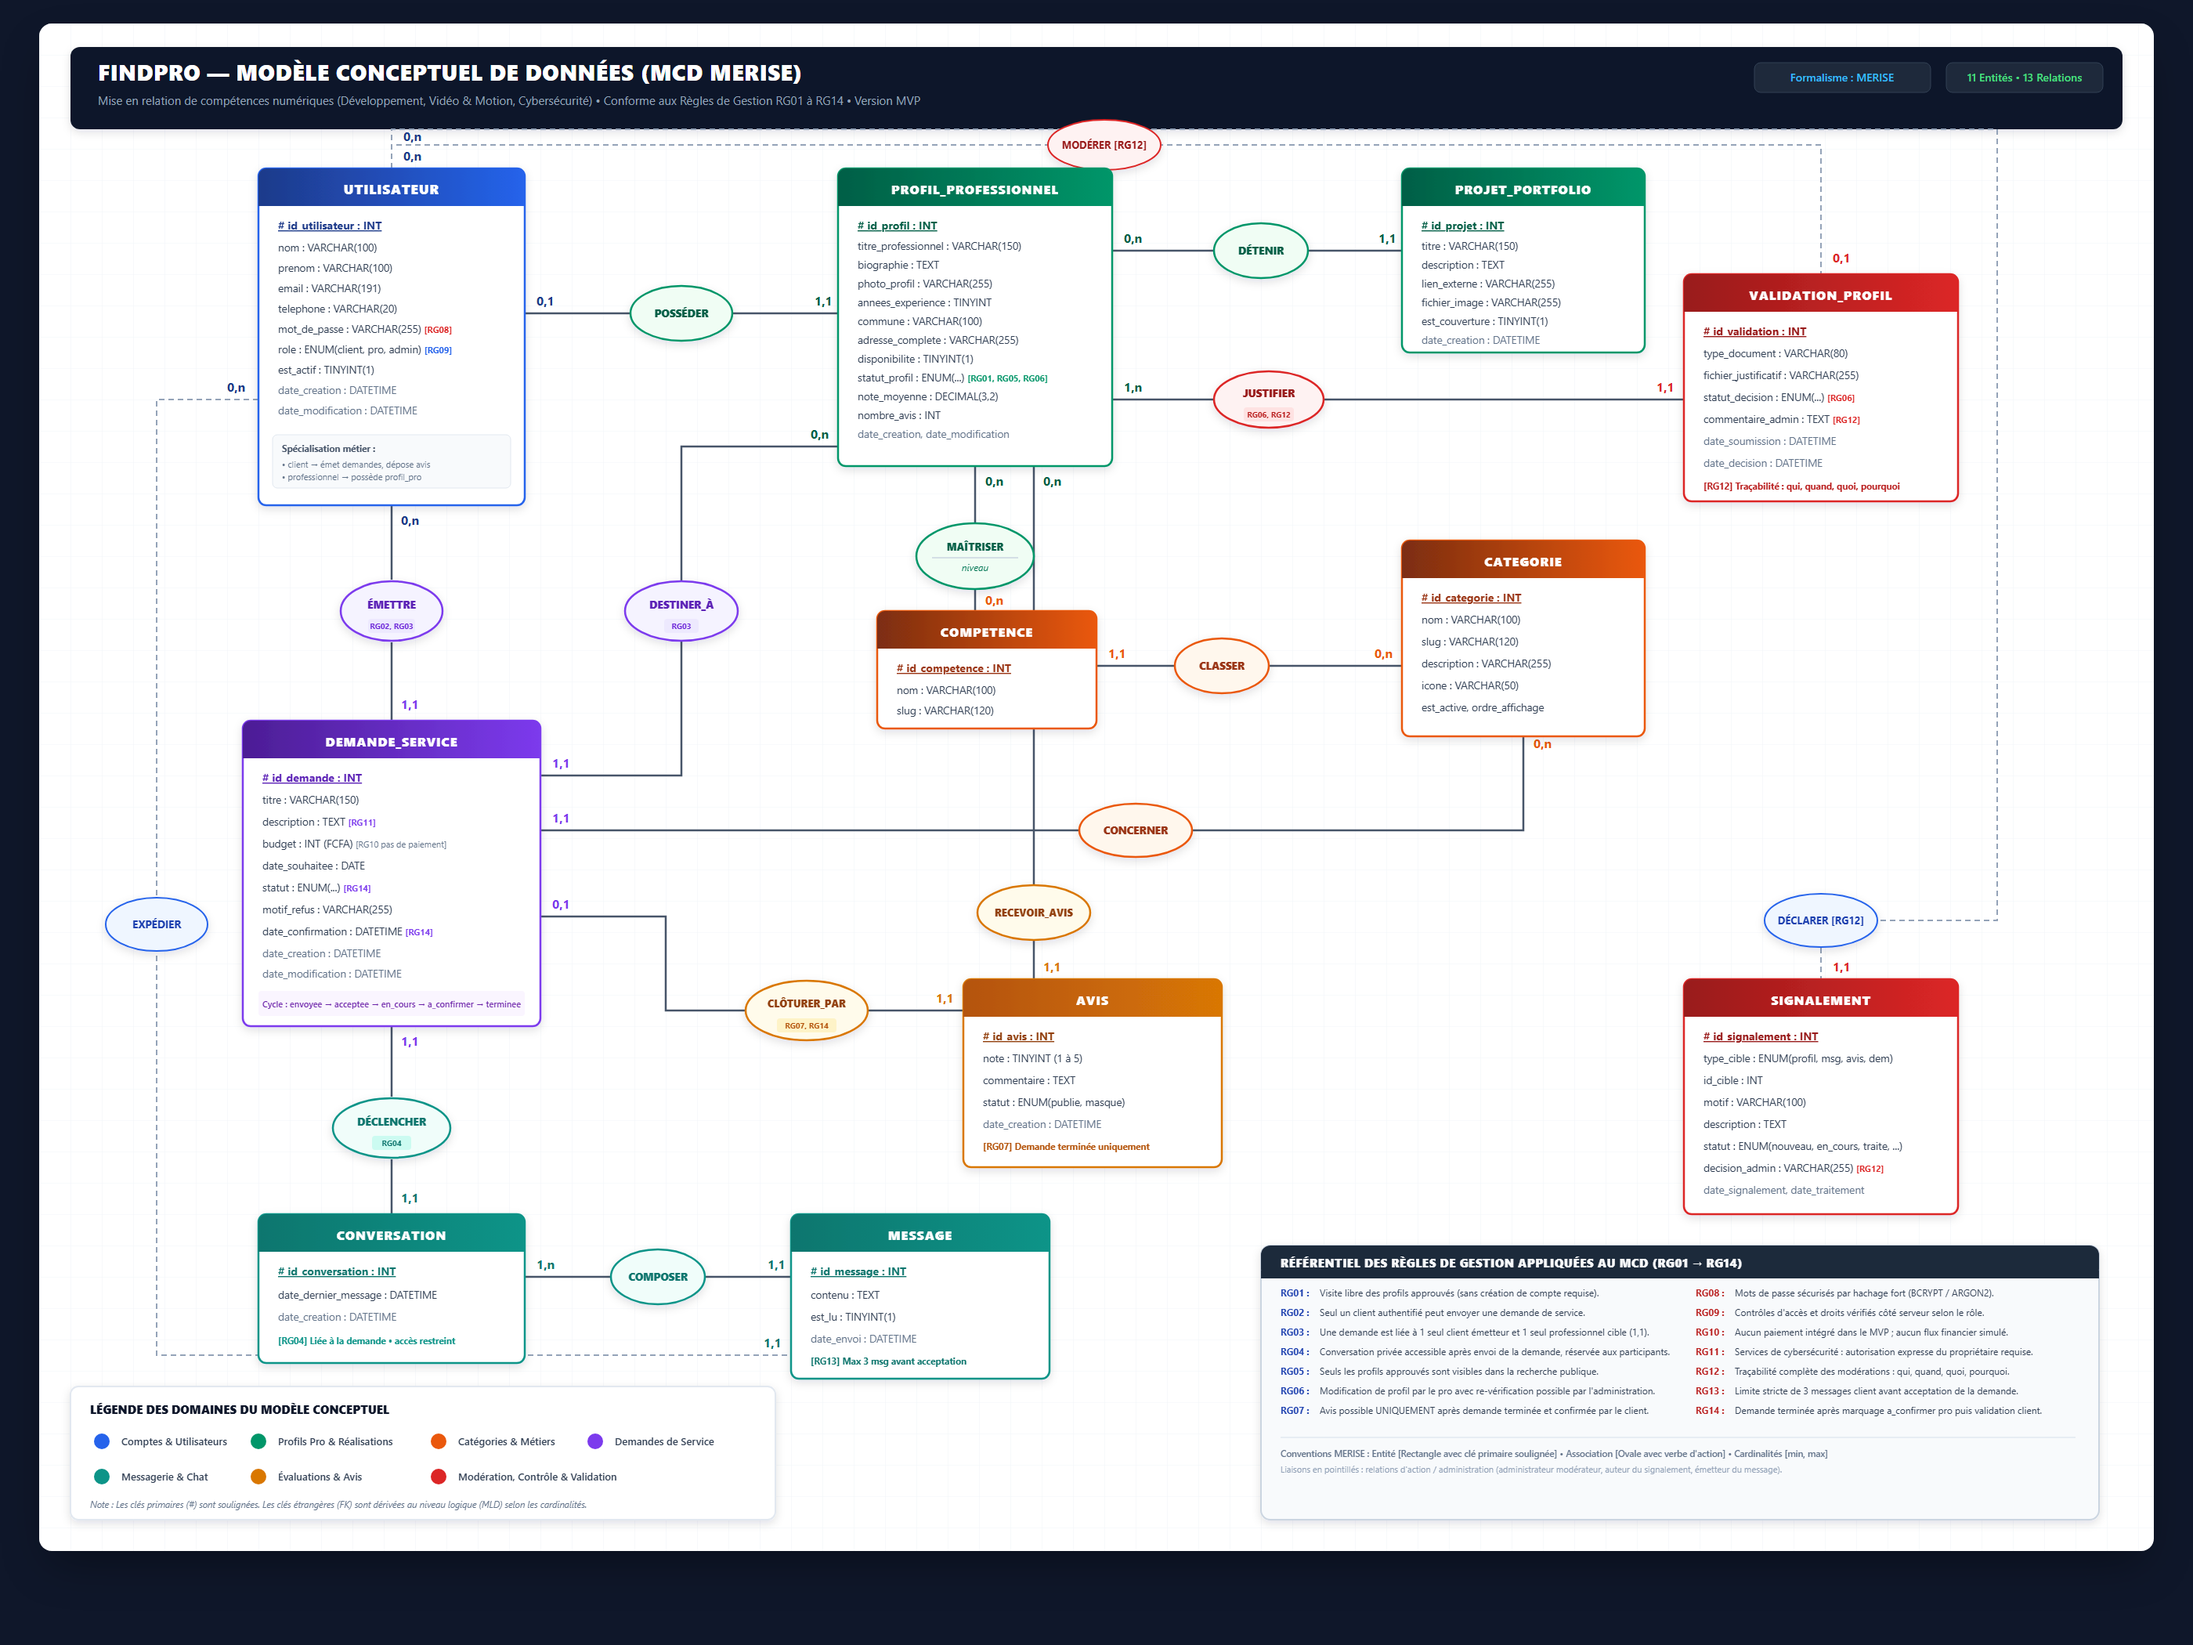
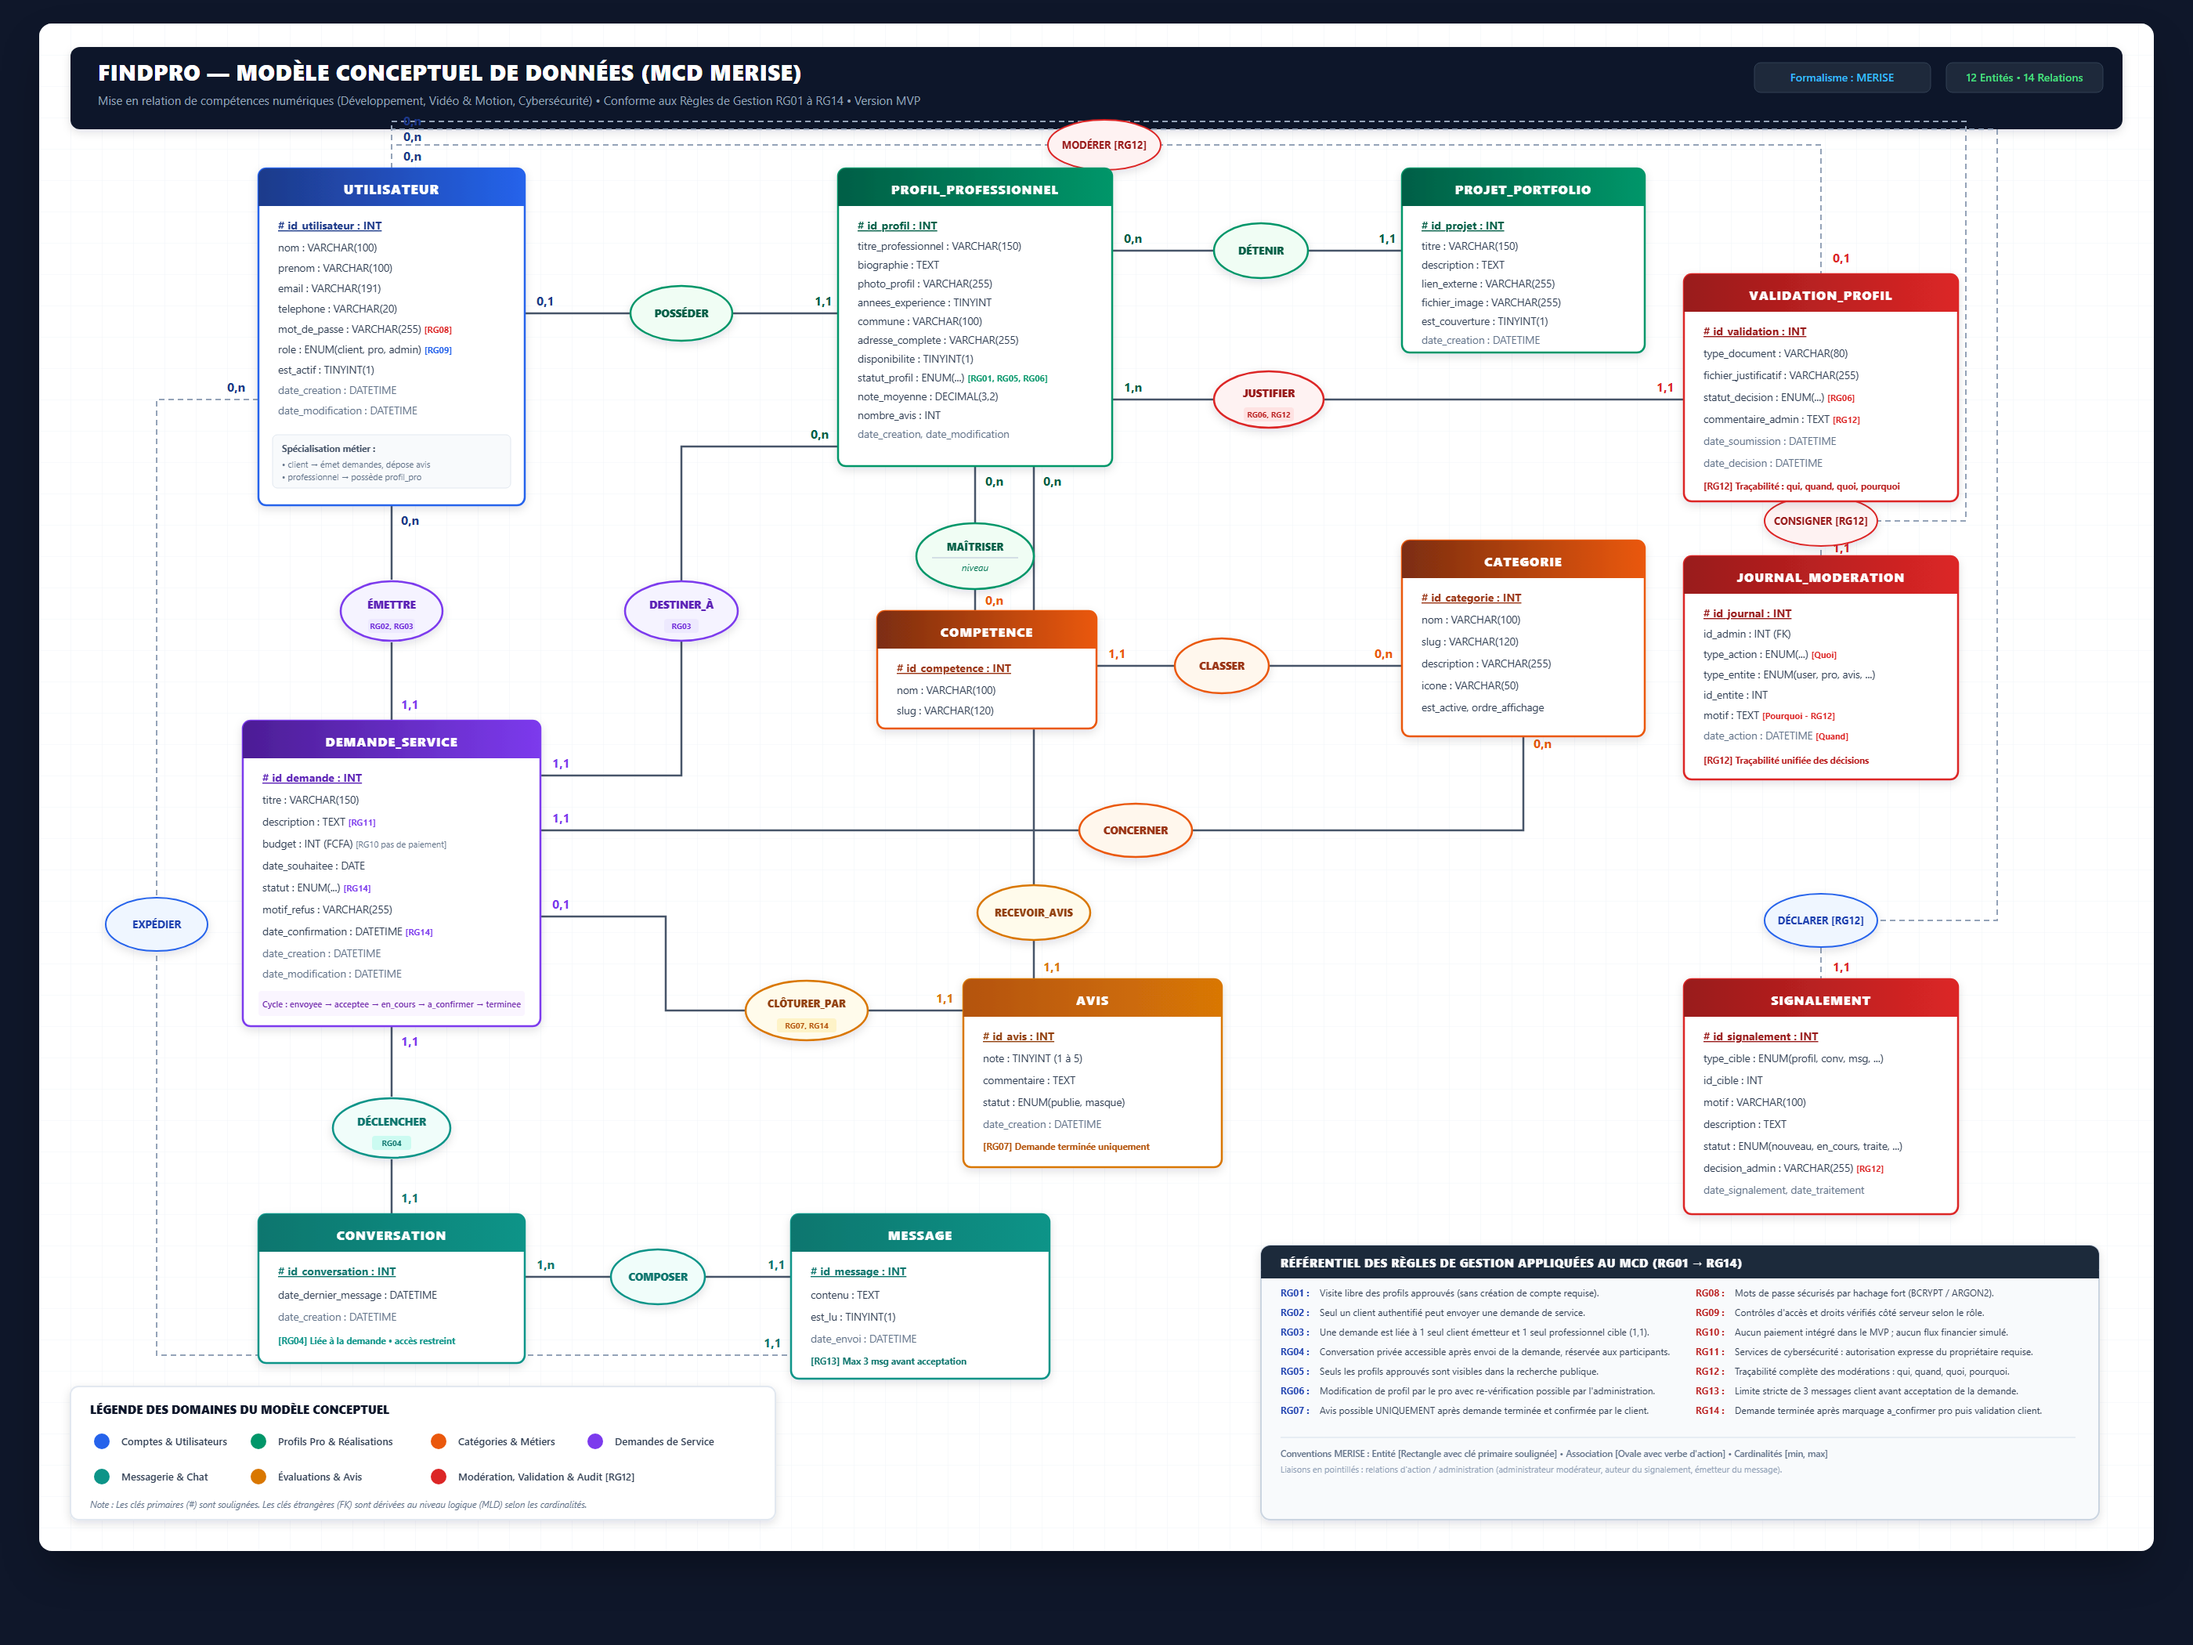
MCD corrige apres tests par scenarios

Changed region(s): [[0.7457, 0.3095, 0.9011, 0.4643]]

diff --git a/docs/mcd_render.html b/docs/mcd_render.html
@@ -95,7 +95,7 @@
 
       <rect x="2435" y="50" width="200" height="38" rx="8" fill="#1e293b" stroke="#334155" stroke-width="1"/>
       <text x="2535" y="74" font-family="'Segoe UI', Roboto, sans-serif" font-size="14" font-weight="600" fill="#4ade80" text-anchor="middle">
-        11 Entités &bull; 13 Relations
+        12 Entités &bull; 14 Relations
       </text>
 
 
@@ -187,6 +187,12 @@
       <path d="M 2275 1180 L 2275 1220" stroke="#94a3b8" stroke-width="2" stroke-dasharray="7,5" fill="none" />
       <text x="465" y="150" font-size="16" font-weight="700" fill="#1e3a8a">0,n</text>
       <text x="2290" y="1210" font-size="16" font-weight="700" fill="#dc2626">1,1</text>
+
+      <!-- 16. UTILISATEUR [Admin] <-> CONSIGNER <-> JOURNAL_MODERATION (RG12) -->
+      <path d="M 450 185 L 450 125 L 2460 125 L 2460 635 L 2347 635" stroke="#94a3b8" stroke-width="2" stroke-dasharray="7,5" fill="none" />
+      <path d="M 2275 660 L 2275 680" stroke="#94a3b8" stroke-width="2" stroke-dasharray="7,5" fill="none" />
+      <text x="465" y="130" font-size="16" font-weight="700" fill="#1e3a8a">0,n</text>
+      <text x="2290" y="675" font-size="16" font-weight="700" fill="#dc2626">1,1</text>
 
 
       <!-- ========================================== -->
@@ -293,6 +299,12 @@
       <g filter="url(#shadow)">
         <ellipse cx="2275" cy="1145" rx="72" ry="34" fill="#eff6ff" stroke="#2563eb" stroke-width="2"/>
         <text x="2275" y="1150" font-size="13" font-weight="700" fill="#1e40af" text-anchor="middle">DÉCLARER [RG12]</text>
+      </g>
+
+      <!-- CONSIGNER (RG12) -->
+      <g filter="url(#shadow)">
+        <ellipse cx="2275" cy="635" rx="72" ry="32" fill="#fef2f2" stroke="#dc2626" stroke-width="2"/>
+        <text x="2275" y="640" font-size="13" font-weight="700" fill="#991b1b" text-anchor="middle">CONSIGNER [RG12]</text>
       </g>
 
 
@@ -480,7 +492,25 @@
         <text x="2125" y="595" font-size="11.5" font-weight="bold" fill="#b91c1c">[RG12] Traçabilité : qui, quand, quoi, pourquoi</text>
       </g>
 
-      <!-- 11. SIGNALEMENT -->
+      <!-- 11. JOURNAL_MODERATION (RG12) -->
+      <g filter="url(#shadow)">
+        <rect x="2100" y="680" width="350" height="285" rx="10" fill="#ffffff" stroke="#dc2626" stroke-width="2.5"/>
+        <rect x="2100" y="680" width="350" height="48" rx="10" fill="url(#ent-admin)" />
+        <rect x="2100" y="718" width="350" height="10" fill="url(#ent-admin)" />
+        <text x="2275" y="713" font-size="16" font-weight="800" fill="#ffffff" text-anchor="middle" letter-spacing="1">JOURNAL_MODERATION</text>
+        
+        <!-- Attributs -->
+        <text x="2125" y="758" font-size="14" font-weight="700" fill="#991b1b" text-decoration="underline"># id_journal : INT</text>
+        <text x="2125" y="784" font-size="13.5" fill="#334155">id_admin : INT (FK)</text>
+        <text x="2125" y="810" font-size="13.5" fill="#334155">type_action : ENUM(...) <tspan fill="#dc2626" font-size="11" font-weight="bold">[Quoi]</tspan></text>
+        <text x="2125" y="836" font-size="13.5" fill="#334155">type_entite : ENUM(user, pro, avis, ...)</text>
+        <text x="2125" y="862" font-size="13.5" fill="#334155">id_entite : INT</text>
+        <text x="2125" y="888" font-size="13.5" fill="#334155">motif : TEXT <tspan fill="#dc2626" font-size="11" font-weight="bold">[Pourquoi - RG12]</tspan></text>
+        <text x="2125" y="914" font-size="13.5" fill="#64748b">date_action : DATETIME <tspan fill="#dc2626" font-size="11" font-weight="bold">[Quand]</tspan></text>
+        <text x="2125" y="945" font-size="11.5" font-weight="bold" fill="#b91c1c">[RG12] Traçabilité unifiée des décisions</text>
+      </g>
+
+      <!-- 12. SIGNALEMENT -->
       <g filter="url(#shadow)">
         <rect x="2100" y="1220" width="350" height="300" rx="10" fill="#ffffff" stroke="#dc2626" stroke-width="2.5"/>
         <rect x="2100" y="1220" width="350" height="48" rx="10" fill="url(#ent-admin)" />
@@ -489,7 +519,7 @@
         
         <!-- Attributs -->
         <text x="2125" y="1298" font-size="14" font-weight="700" fill="#991b1b" text-decoration="underline"># id_signalement : INT</text>
-        <text x="2125" y="1326" font-size="13.5" fill="#334155">type_cible : ENUM(profil, msg, avis, dem)</text>
+        <text x="2125" y="1326" font-size="13.5" fill="#334155">type_cible : ENUM(profil, conv, msg, ...)</text>
         <text x="2125" y="1354" font-size="13.5" fill="#334155">id_cible : INT</text>
         <text x="2125" y="1382" font-size="13.5" fill="#334155">motif : VARCHAR(100)</text>
         <text x="2125" y="1410" font-size="13.5" fill="#334155">description : TEXT</text>
@@ -590,7 +620,7 @@
         <text x="305" y="1860" font-size="13" font-weight="600" fill="#334155">Évaluations & Avis</text>
 
         <circle cx="510" cy="1855" r="10" fill="#dc2626" />
-        <text x="535" y="1860" font-size="13" font-weight="600" fill="#334155">Modération, Contrôle & Validation</text>
+        <text x="535" y="1860" font-size="13" font-weight="600" fill="#334155">Modération, Validation & Audit [RG12]</text>
 
         <text x="65" y="1895" font-size="11.5" font-style="italic" fill="#64748b">
           Note : Les clés primaires (#) sont soulignées. Les clés étrangères (FK) sont dérivées au niveau logique (MLD) selon les cardinalités.

diff --git a/docs/dictionnaire_donnees.md b/docs/dictionnaire_donnees.md
@@ -184,8 +184,8 @@ Dossier d'instruction et justificatifs soumis par le professionnel pour obtenir 
 | `id_validation` | Clé primaire | Entier (INT) | UNSIGNED AUTO_INCREMENT | Oui | admin | système |
 | `id_profil` | Profil professionnel soumis à examen | Entier (INT) | UNSIGNED (FK profil_professionnel) | Oui | admin | système |
 | `id_admin` | Administrateur ayant statué sur la demande | Entier (INT) | UNSIGNED (FK utilisateur) | Non | admin | système |
-| `type_document` | Nature du document produit (CNI, Passeport, Diplôme, Attestation) | Chaîne (VARCHAR) | 80 caractères | Oui | admin | saisie |
-| `fichier_justificatif` | Chemin d'accès au fichier téléversé et chiffré/sécurisé | Chaîne (VARCHAR) | 255 caractères | Oui | admin | saisie |
+| `type_document` | Nature du document produit (CNI, Passeport, Diplôme, Attestation) | Chaîne (VARCHAR) | 80 caractères | Non (si simple correction textuelle) | admin | saisie |
+| `fichier_justificatif` | Chemin d'accès au fichier téléversé et chiffré/sécurisé | Chaîne (VARCHAR) | 255 caractères | Non (si simple correction textuelle) | admin | saisie |
 | `statut_decision` | Décision administrative | Énumération (ENUM) | `'en_attente'`, `'approuve'`, `'refuse'`, `'a_corriger'` | Oui | admin | saisie |
 | `commentaire_admin` | Consignes de correction ou motif du refus notifié au pro | Texte (TEXT) | Texte libre | Non | privée (communiqué au pro) / admin | saisie |
 | `date_soumission` | Date de dépôt du dossier par le professionnel | Date/Heure (DATETIME) | `YYYY-MM-DD HH:MM:SS` | Oui | admin | système |
@@ -200,7 +200,7 @@ Procédure d'alerte pour abus, comportement frauduleux ou non-conformité.
 | :--- | :--- | :--- | :--- | :--- | :--- | :--- |
 | `id_signalement` | Clé primaire | Entier (INT) | UNSIGNED AUTO_INCREMENT | Oui | admin | système |
 | `id_auteur` | Utilisateur ayant signalé l'élément | Entier (INT) | UNSIGNED (FK utilisateur) | Oui | admin | système |
-| `type_cible` | Entité faisant l'objet du signalement | Énumération (ENUM) | `'profil'`, `'message'`, `'avis'`, `'demande'` | Oui | admin | saisie / système |
+| `type_cible` | Entité faisant l'objet du signalement | Énumération (ENUM) | `'profil'`, `'conversation'`, `'message'`, `'avis'`, `'demande'` | Oui | admin | saisie / système |
 | `id_cible` | Identifiant de l'élément incriminé | Entier (INT) | UNSIGNED | Oui | admin | système |
 | `motif` | Catégorisation du problème (harcèlement, arnaque, travail non livré, fausse identité) | Chaîne (VARCHAR) | 100 caractères | Oui | admin | saisie |
 | `description` | Explications fournies par le plaignant | Texte (TEXT) | Texte libre | Oui | admin | saisie |
@@ -208,6 +208,21 @@ Procédure d'alerte pour abus, comportement frauduleux ou non-conformité.
 | `decision_admin` | Action corrective retenue (ex: avertissement, suspension de compte, classement sans suite) | Chaîne (VARCHAR) | 255 caractères | Non | admin | saisie |
 | `date_signalement` | Date et heure du dépôt du signalement | Date/Heure (DATETIME) | `YYYY-MM-DD HH:MM:SS` | Oui | admin | système |
 | `date_traitement` | Date et heure de clôture du dossier | Date/Heure (DATETIME) | `YYYY-MM-DD HH:MM:SS` | Non | admin | système |
+
+---
+
+## 13. Entité : JOURNAL_MODERATION (`journal_moderation`)
+Historique centralisé et immuable de traçabilité des décisions administratives (conformité **RG12 : qui, quand, quoi, pourquoi**).
+
+| Donnée | Description | Type | Taille / Format | Obligatoire | Confidentialité | Source |
+| :--- | :--- | :--- | :--- | :--- | :--- | :--- |
+| `id_journal` | Clé primaire unique de la trace | Entier (INT) | UNSIGNED AUTO_INCREMENT | Oui | admin | système |
+| `id_admin` | Administrateur ayant opéré la décision (Qui) | Entier (INT) | UNSIGNED (FK utilisateur) | Oui | admin | système |
+| `type_action` | Nature de l'opération de modération (Quoi) | Énumération (ENUM) | `'suspension_compte'`, `'activation_compte'`, `'masquage_avis'`, `'demande_correction_profil'`, `'refus_profil'`, `'traitement_signalement'` | Oui | admin | saisie / système |
+| `type_entite` | Nature de l'entité cible visée | Énumération (ENUM) | `'utilisateur'`, `'profil_professionnel'`, `'avis'`, `'signalement'` | Oui | admin | système |
+| `id_entite` | Identifiant numérique de l'élément visé | Entier (INT) | UNSIGNED | Oui | admin | système |
+| `motif` | Motif détaillé ou justification de l'action (Pourquoi) | Texte (TEXT) | Texte libre explicatif | Oui | admin | saisie |
+| `date_action` | Date et heure précises de l'opération (Quand) | Date/Heure (DATETIME) | `YYYY-MM-DD HH:MM:SS` | Oui | admin | système |
 
 ---
 
